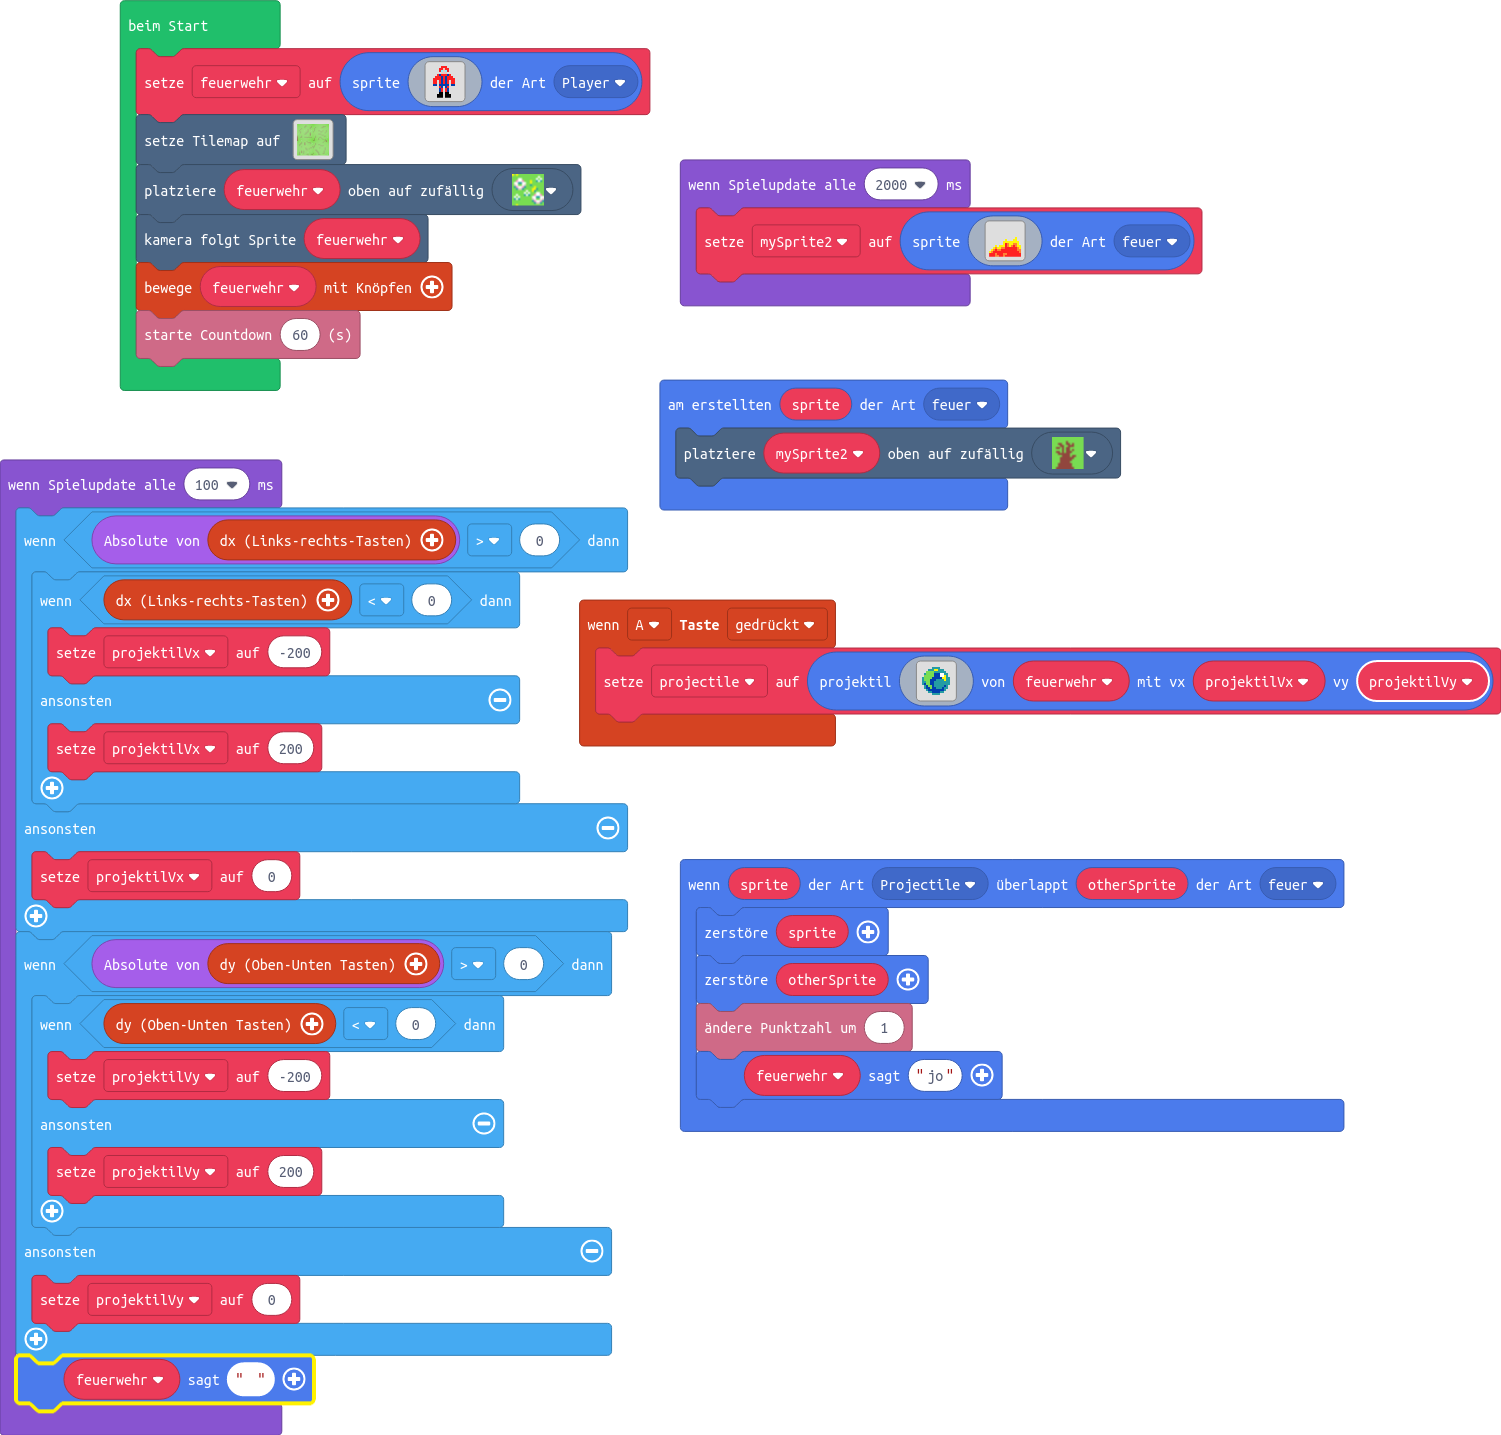
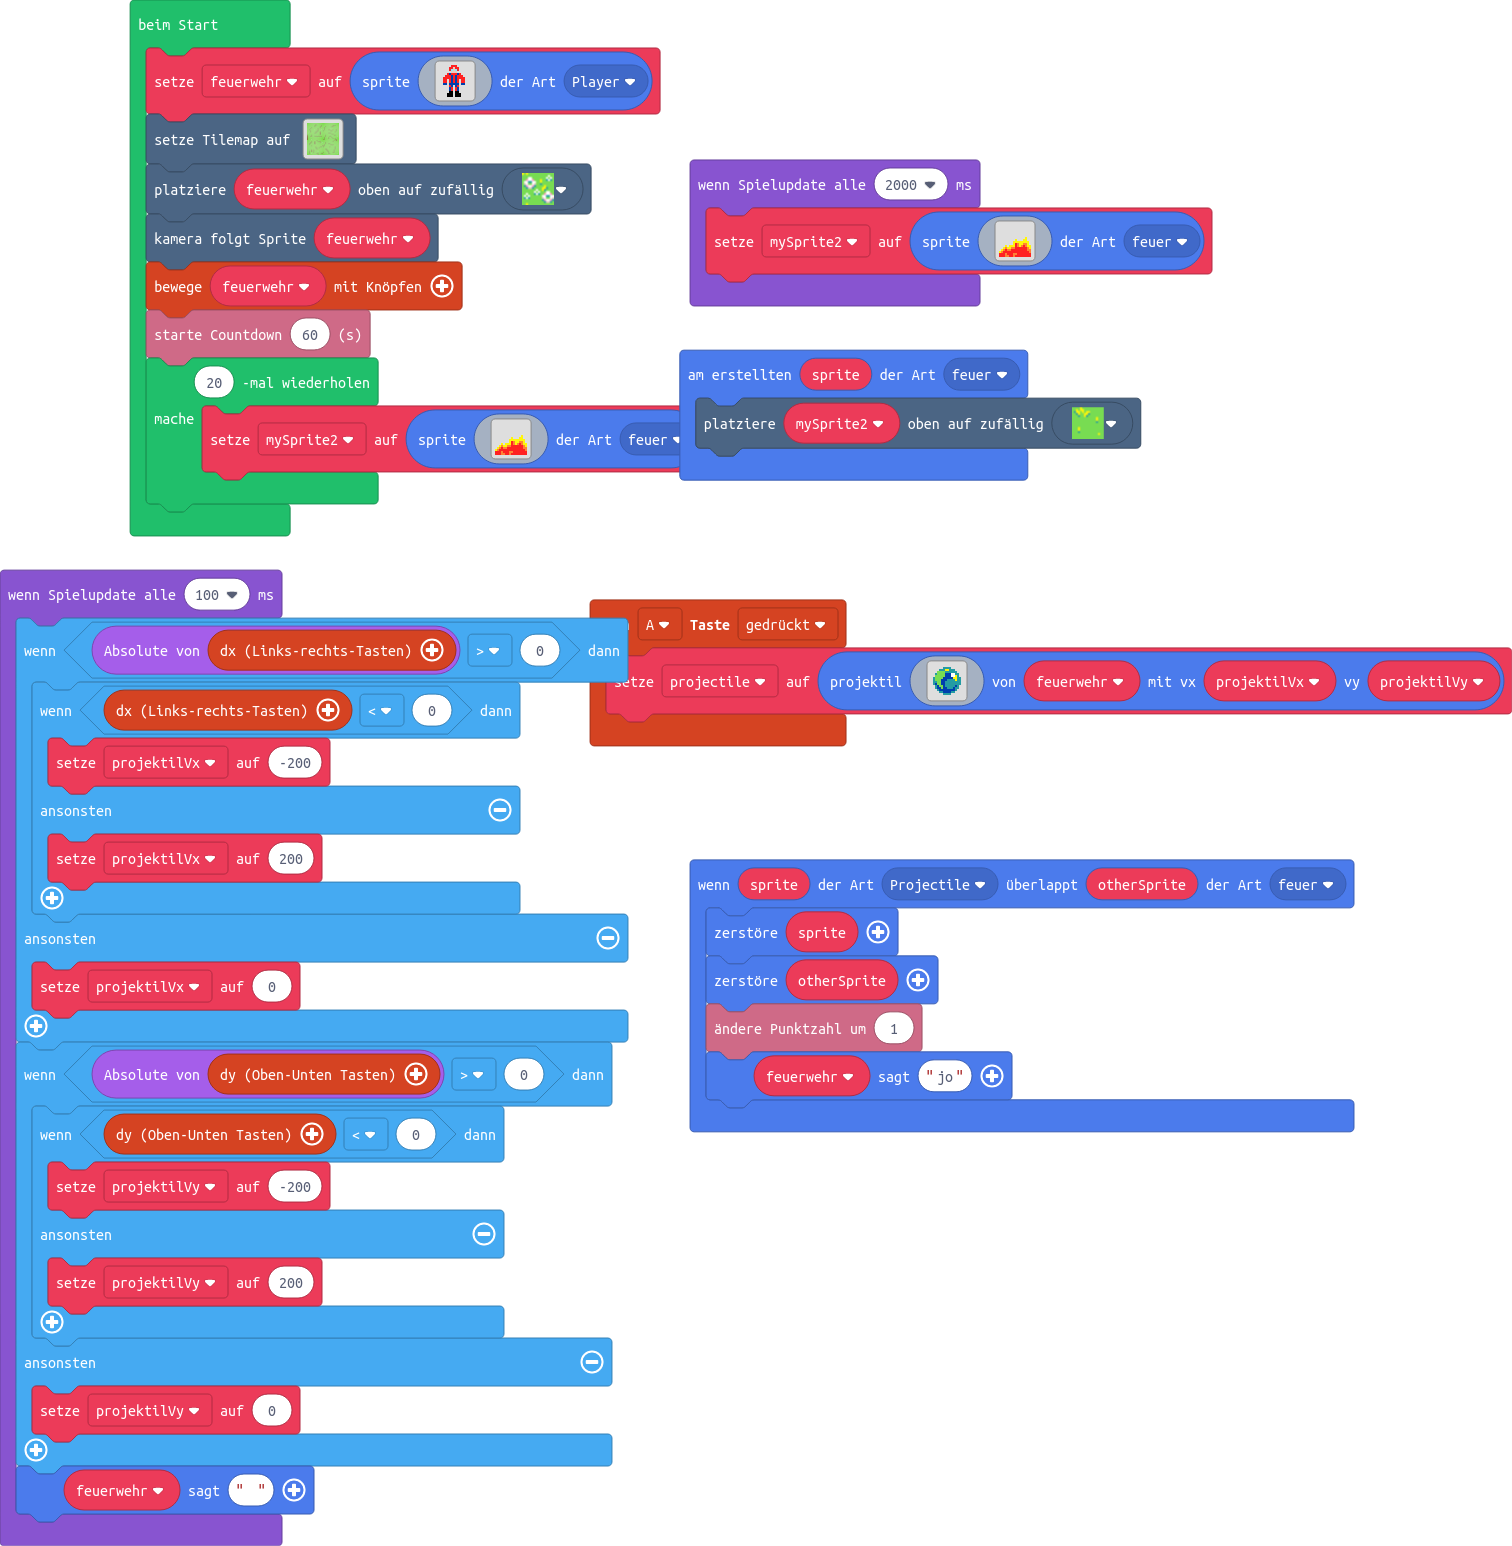
update

diff --git a/main.ts b/main.ts
@@ -98,11 +98,8 @@ e e 7 e e e e e e e e e 7 7 7 7
 7 7 7 e e e e e e e e e e e 7 7 
 `
 }
-sprites.onOverlap(SpriteKind.Projectile, SpriteKind.feuer, function (sprite, otherSprite) {
-    sprite.destroy()
-    otherSprite.destroy()
-    info.changeScoreBy(1)
-    feuerwehr.say("jo")
+sprites.onCreated(SpriteKind.feuer, function (sprite) {
+    tiles.placeOnRandomTile(mySprite2, sprites.castle.tileGrass1)
 })
 controller.A.onEvent(ControllerButtonEvent.Pressed, function () {
     projectile = sprites.createProjectileFromSprite(img`
@@ -124,13 +121,16 @@ controller.A.onEvent(ControllerButtonEvent.Pressed, function () {
 . . . . . . . . . . . . . . . . 
 `, feuerwehr, projektilVx, projektilVy)
 })
-sprites.onCreated(SpriteKind.feuer, function (sprite) {
-    tiles.placeOnRandomTile(mySprite2, myTiles.tile1)
+sprites.onOverlap(SpriteKind.Projectile, SpriteKind.feuer, function (sprite, otherSprite) {
+    sprite.destroy()
+    otherSprite.destroy()
+    info.changeScoreBy(1)
+    feuerwehr.say("jo")
 })
-let mySprite2: Sprite = null
 let projektilVy = 0
 let projektilVx = 0
 let projectile: Sprite = null
+let mySprite2: Sprite = null
 let feuerwehr: Sprite = null
 feuerwehr = sprites.create(img`
 . . . . . . 2 2 2 . . . . . . . 
@@ -191,7 +191,7 @@ tiles.placeOnRandomTile(feuerwehr, sprites.castle.tileGrass2)
 scene.cameraFollowSprite(feuerwehr)
 controller.moveSprite(feuerwehr)
 info.startCountdown(60)
-game.onUpdateInterval(2000, function () {
+for (let index = 0; index < 20; index++) {
     mySprite2 = sprites.create(img`
 . . . . . . . . . . . . . . . . 
 . . . . . . . . . . . . . . . . 
@@ -210,7 +210,7 @@ game.onUpdateInterval(2000, function () {
 2 2 2 4 2 2 2 4 4 2 2 2 2 2 2 2 
 2 2 2 4 4 2 2 4 2 2 2 2 2 2 2 2 
 `, SpriteKind.feuer)
-})
+}
 game.onUpdateInterval(100, function () {
     if (Math.abs(controller.dx()) > 0) {
         if (controller.dx() < 0) {
@@ -231,4 +231,24 @@ game.onUpdateInterval(100, function () {
         projektilVy = 0
     }
     feuerwehr.say("")
+})
+game.onUpdateInterval(2000, function () {
+    mySprite2 = sprites.create(img`
+. . . . . . . . . . . . . . . . 
+. . . . . . . . . . . . . . . . 
+. . . . . . . . . . . . . . . . 
+. . . . . . . . . . . . . . . . 
+. . . . . . . . . . . . . . . . 
+. . . . . . . . . . . . . . . . 
+. . . . . . . . . . . . . 5 . . 
+. . . . . . . . 5 . . . 5 5 . . 
+. . . . . . . 5 5 5 5 5 5 5 5 . 
+. . . . . . . 5 2 4 5 5 4 4 5 . 
+. . . 5 . 5 5 5 2 4 5 4 2 4 5 5 
+. . 5 4 5 5 4 4 2 2 2 2 2 2 4 5 
+. 5 4 2 4 4 2 2 2 2 2 2 2 2 4 4 
+5 4 2 2 2 2 2 2 2 2 2 2 2 2 2 4 
+2 2 2 4 2 2 2 4 4 2 2 2 2 2 2 2 
+2 2 2 4 4 2 2 4 2 2 2 2 2 2 2 2 
+`, SpriteKind.feuer)
 })
